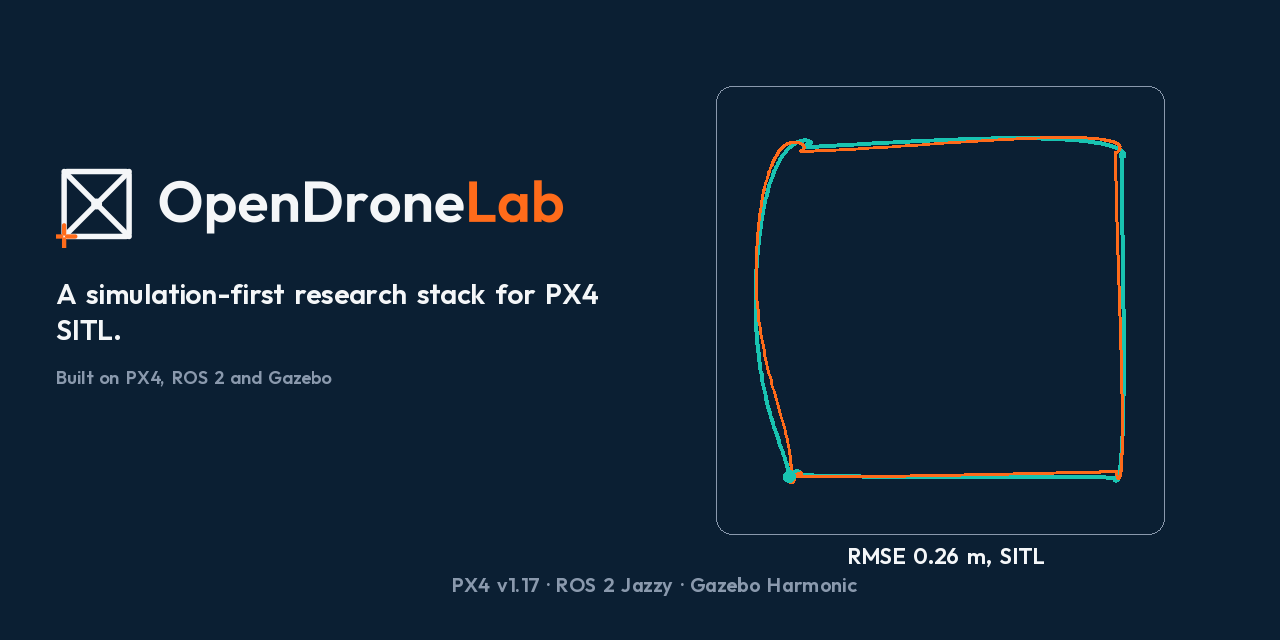
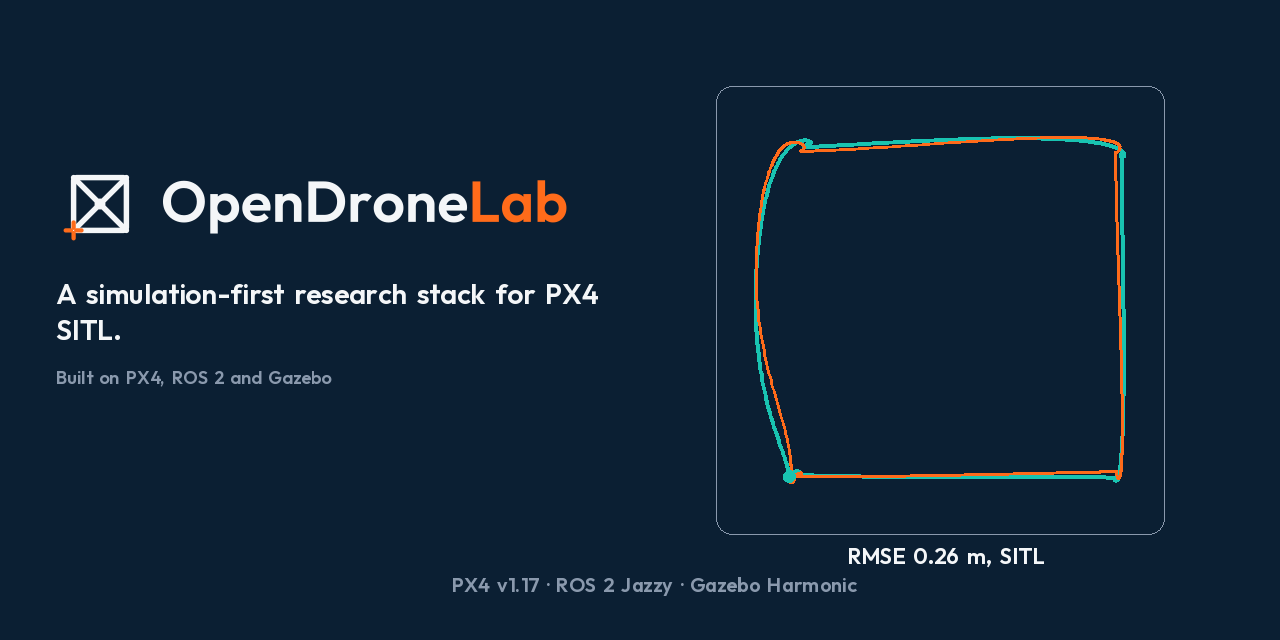
docs(brand): fix light-theme wordmark, crosshair, and CI badge
Use GitHub appearance fragments so the navy wordmark shows on a light
README even when the OS is in dark mode. Keep the orange crosshair
inside the mark viewBox, and switch the CI badge to the native
Actions URL that works on a private repo.

Changed region(s): [[0.0312, 0.25, 0.4688, 0.375]]

diff --git a/README.md b/README.md
@@ -1,11 +1,11 @@
 # OpenDroneLab
 
-<picture>
-  <source media="(prefers-color-scheme: dark)" srcset="docs/media/logo-dark.svg">
-  <img src="docs/media/logo-light.svg" alt="OpenDroneLab" height="48">
-</picture>
+<!-- GitHub's appearance setting, not the OS prefers-color-scheme, so a
+     light GitHub session still gets the navy wordmark when the OS is dark. -->
+<img src="docs/media/logo-light.svg#gh-light-mode-only" alt="OpenDroneLab" height="48">
+<img src="docs/media/logo-dark.svg#gh-dark-mode-only" alt="OpenDroneLab" height="48">
 
-[![CI](https://img.shields.io/github/actions/workflow/status/palcode/opendronelab/ci.yml?branch=main&style=flat&label=CI)](https://github.com/palcode/opendronelab/actions/workflows/ci.yml)
+[![CI](https://github.com/palcode/opendronelab/actions/workflows/ci.yml/badge.svg)](https://github.com/palcode/opendronelab/actions/workflows/ci.yml)
 [![License AGPL-3.0-only](https://img.shields.io/badge/license-AGPL--3.0--only-blue?style=flat)](LICENSE)
 ![PX4 v1.17](https://img.shields.io/badge/PX4-v1.17-blue?style=flat)
 ![ROS 2 Jazzy](https://img.shields.io/badge/ROS%202-Jazzy-blue?style=flat)

diff --git a/docs/brand.md b/docs/brand.md
@@ -20,7 +20,11 @@ plots. It does not change scored metrics or scenario fingerprints.
 - The wordmark is "OpenDroneLab" in a geometric sans, with **Lab** in signal orange. Letterforms are converted to paths so the files do not depend on a font being installed.
 - The mark is a top-down quadrotor X whose four arms point to the corners of a square (the square flight path), with a small crosshair at the start corner. It is drawn to stay legible at 32 px.
 
-The README selects light/dark with a `<picture>` element and `prefers-color-scheme`.
+The README selects light/dark with GitHub's `#gh-light-mode-only` /
+`#gh-dark-mode-only` image fragments, which follow the GitHub appearance
+setting (not the OS `prefers-color-scheme`). Using a CSS media query here
+would show the off-white wordmark on a light GitHub page whenever the OS
+is in dark mode. Fills are hard hex colours, not `currentColor`.
 
 ## Social preview
 

diff --git a/docs/media/README.md b/docs/media/README.md
@@ -3,7 +3,8 @@
 Wordmark, mark, and a prepared social preview follow [docs/brand.md](../brand.md).
 Letterforms in the SVGs are paths (Outfit, OFL), so a font does not have to
 be installed to render them. The README selects `logo-light.svg` /
-`logo-dark.svg` with a `<picture>` element and `prefers-color-scheme`.
+`logo-dark.svg` with GitHub `#gh-light-mode-only` / `#gh-dark-mode-only`
+fragments, which follow the GitHub appearance setting.
 
 `social-preview.png` is 1280×640, under 1 MB, and **prepared only** — it
 is not uploaded as the GitHub repository social preview.
